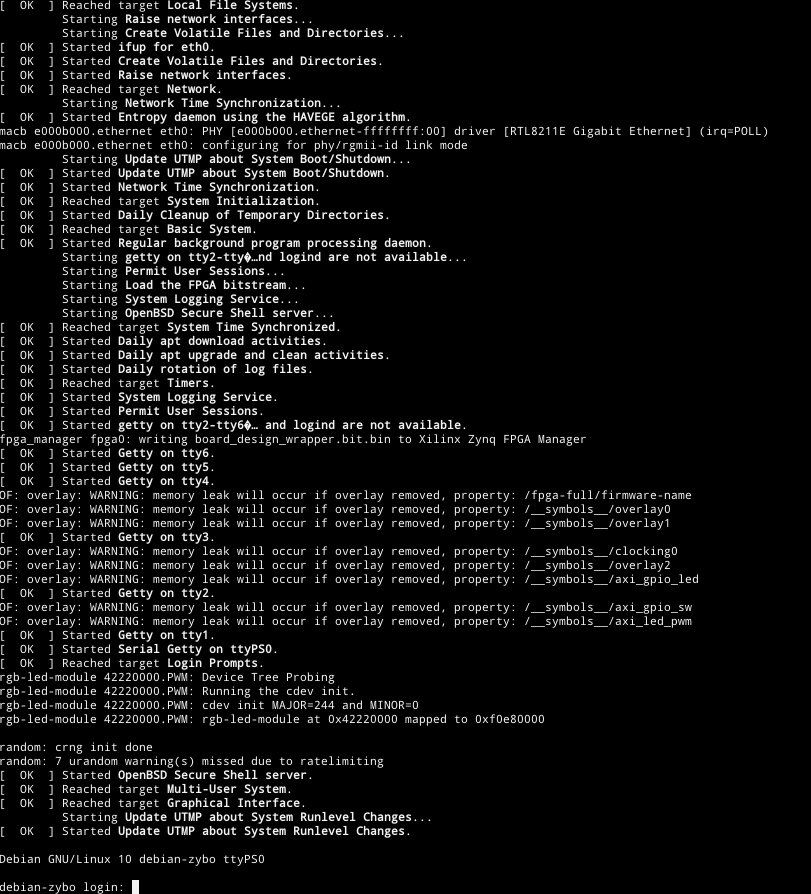
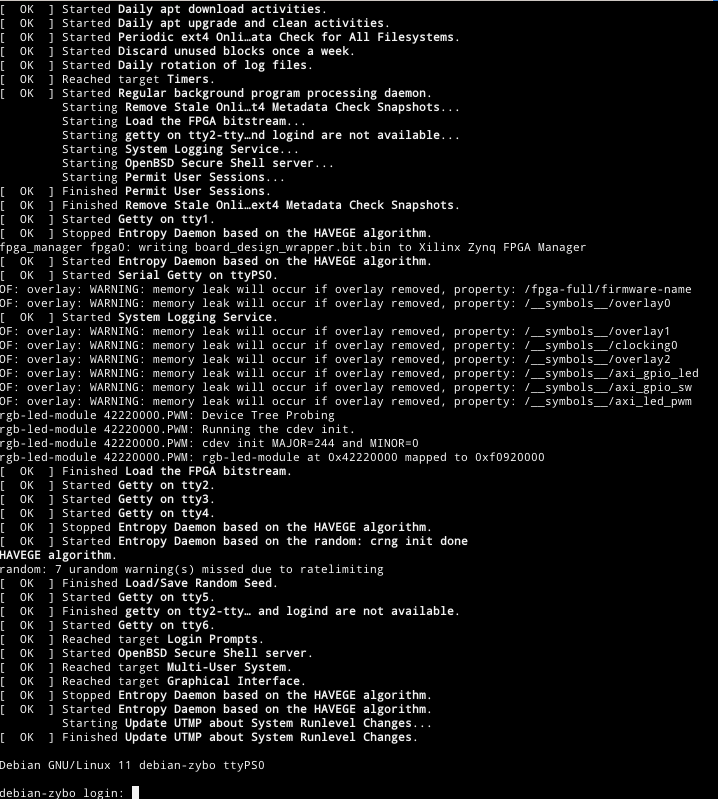
Update to new Debian 11 Bullseye

Changed region(s): [[0.0, 0.0, 0.9805, 1.0], [0.8886, 0.1202, 0.9499, 0.1502]]

diff --git a/debian-zybo/README.md b/debian-zybo/README.md
@@ -14,7 +14,7 @@ You need to install following packages (my system is Debian Linux, stable):
 
 You also need to have to cross-compiler tools installed on your system. In my case, I have chosen the toolchain
 from Vitis (because it is already there and I have sourced them into PATH; details about Vivado version
-is root of this repo) but you can also try to install the gcc-arm-linux-gnueabihf package and try the build.
+is in the root of this repo) but you can also try to install the gcc-arm-linux-gnueabihf package and try the build.
 
 ## Time to build Debian image
 
